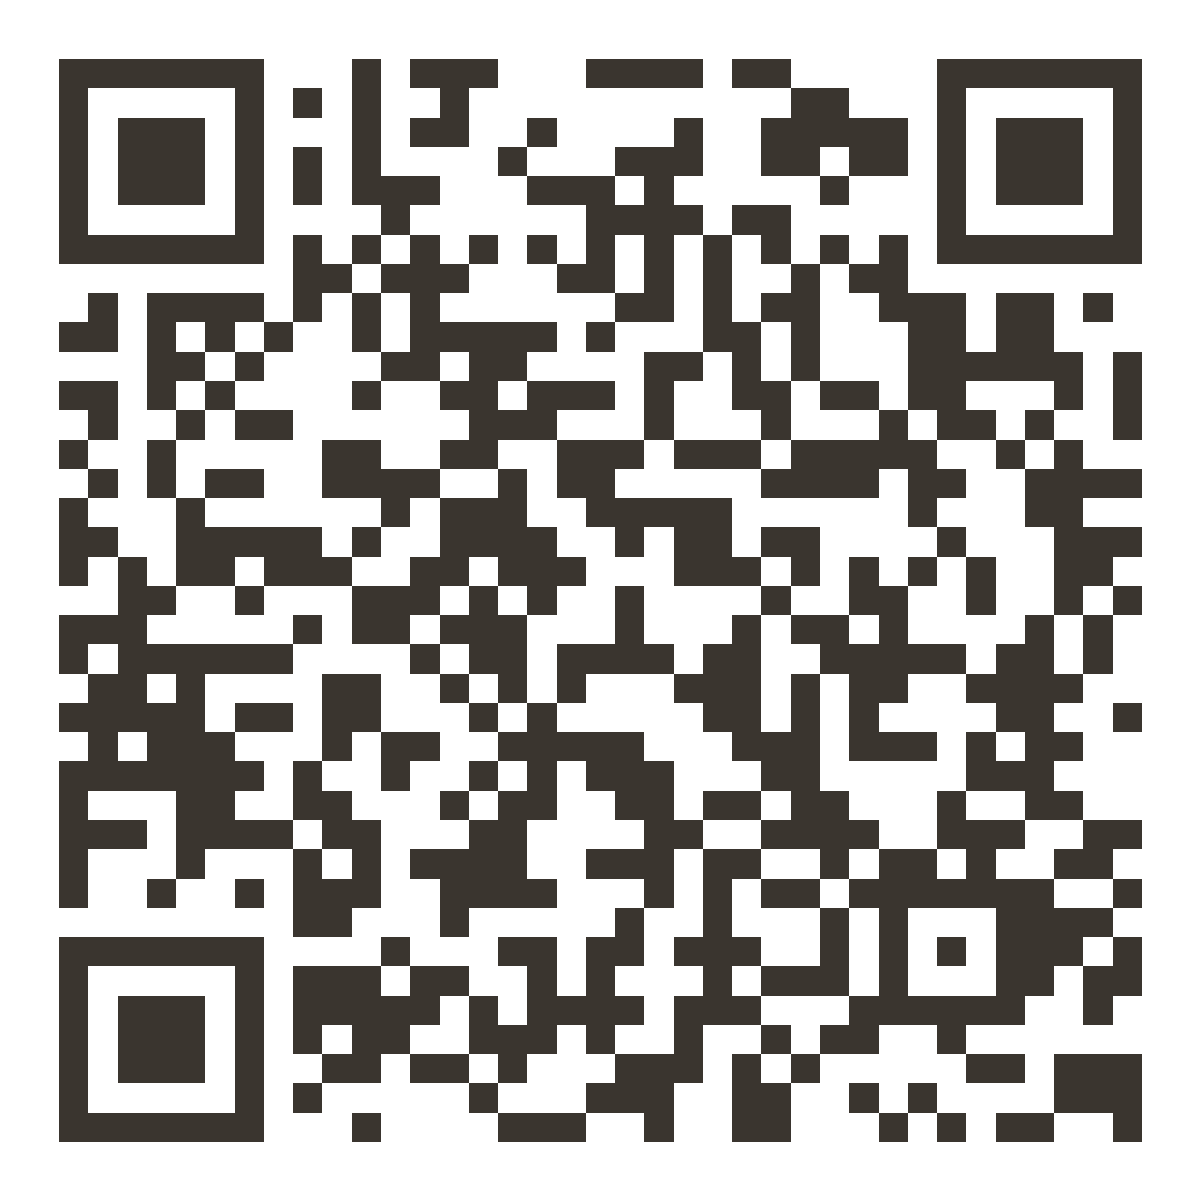
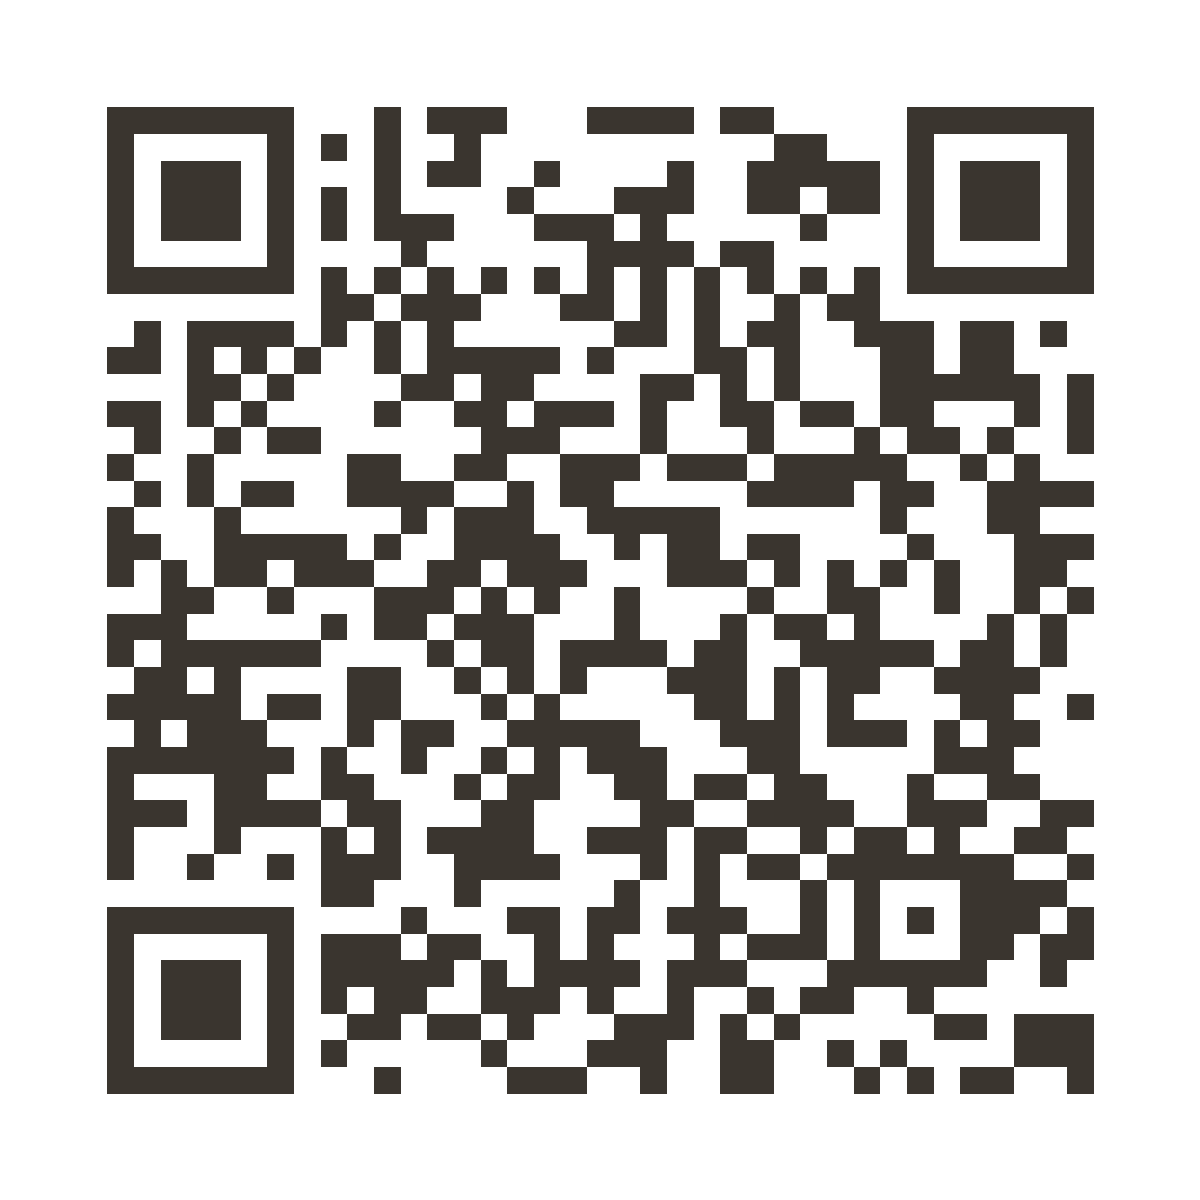
docs: QR 절을 종이 청첩장 인쇄 업체 전달용으로 재작성
QR 은 웹 페이지에 넣지 않고 인쇄 업체에 넘기는 용도로 확정. 그에 맞춰 정리

- 여백(quiet zone) 2모듈 -> 4모듈. QR 규격이 요구하는 값이며, 부족하면 인쇄물 인식률이 떨어진다
- 업체에 함께 넘길 인쇄 사양 명시 — 최소 25mm, 여백 절단 금지, 색 반전 금지, 단색 배경
- 코드 구성 실측 기재 (37x37 모듈 + 여백 4모듈 = 45x45)
- 넘기기 전 확인 2가지 — 파일 디코딩, 시안 실물 스캔
  화면에서 읽히는 것과 종이에서 읽히는 것은 다르다
- 페이지 삽입용 HTML 안내 삭제 (해당 없음)

README 그 외
- 상단에 배포 주소 명시
- 파일 구성에 QR 산출물·측정 스크립트 추가
- 남은 작업을 실제 항목으로 구체화 (플레이스홀더·사진 교체가 전부, 배포는 이미 동작 중)

diff --git a/README.md b/README.md
@@ -3,6 +3,8 @@
 베뉴(Tov Hesed) 실제 입구 사진을 좌·우 문짝으로 잘라, 스크롤 진행률에 맞춰 `rotateY` 로 열리게 한 단일 파일 모바일 청첩장.
 동영상·GIF·이미지 시퀀스 미사용 → 총 자산 1MB 미만, 스크롤 역방향도 그대로 되감김.
 
+**배포 주소** — https://dylan-bak.github.io/wedding-invitation/ (GitHub Pages, `main` 에 push 하면 1~2분 뒤 자동 반영)
+
 ## 1. 실행
 
 ```bash
@@ -29,7 +31,9 @@ npx serve -l 4321 .
 | `IMG_0668(1).jpg` `IMG_1413(1).jpg` `IMG_1804(1).jpg` | 원본 사진 (자산 재생성용 소스) |
 | `IMG_0668(1)-2.jpg` | 원본 0668에서 문짝만 지운 인페인팅 결과 — `gate-bg.jpg` 소스 |
 | `3c4b782e-d48a-4e8d-8e9e-a11900226e3b.png` | 원본 0668의 간판을 "TOV HESED" 로 고친 생성본 (848x1248) — `frame.jpg`·문짝 소스 |
-| `tools/build-qr.mjs` | 배포 주소 → QR (`assets/qr.svg` · `qr.png`) |
+| `assets/qr.svg` · `qr.png` | 배포 주소 QR — **종이 청첩장 인쇄 업체 전달용** |
+| `tools/build-qr.mjs` | QR 생성 |
+| `tools/measure-scroll.mjs` | 문 열림 구간 프레임·각도 측정 + 구간별 스냅샷 |
 
 ## 3. 동작 원리
 
@@ -126,9 +130,9 @@ const MAX_ZOOM = 1.22;       // 최대 확대
 - 연락처 `tel:` / `sms:` 번호
 - 계좌 정보
 
-## 5. QR 코드
+## 5. QR 코드 — 종이 청첩장 인쇄용
 
-배포 주소를 QR 로 뽑는다. 종이 청첩장·현장 안내판용.
+청첩장 주소를 QR 로 뽑아 **인쇄 업체에 전달**하는 용도. 웹 페이지 안에는 넣지 않는다.
 
 ```bash
 node tools/build-qr.mjs
@@ -136,24 +140,38 @@ node tools/build-qr.mjs
 
 주소가 바뀌면 인자로 넘긴다 — `node tools/build-qr.mjs https://example.com/`
 
-| 산출물 | 용도 |
-|---|---|
-| `assets/qr.svg` | 화면·벡터. 크기를 키워도 안 깨진다 |
-| `assets/qr.png` | 인쇄용 1200px (300dpi 로 약 10cm) |
+### 업체에 넘길 파일
 
-오류정정 수준 Q — 25% 손상까지 복원되므로 인쇄물이 접히거나 가운데에 로고를 얹어도 읽힌다.
+| 파일 | 설명 | 우선순위 |
+|---|---|---|
+| `assets/qr.svg` | 벡터. 업체가 어떤 크기로 배치해도 안 깨진다 | **이걸 먼저 준다** |
+| `assets/qr.png` | 1200px 래스터. 업체가 SVG 를 못 받을 때만 | 대체용 |
 
-**생성 후 실제로 디코딩해 주소가 맞는지 확인할 것.** 눈으로는 틀린 QR 을 구별할 수 없다.
+### 인쇄 사양 (업체 전달 시 함께 명시)
+
+| 항목 | 값 | 이유 |
+|---|---|---|
+| 코드 구성 | 37×37 모듈 + 사방 여백 4모듈 = **45×45** | — |
+| **최소 인쇄 크기** | **가로세로 25mm 이상** | 모듈 하나가 0.5mm 이상이어야 휴대폰 카메라가 안정적으로 읽는다 |
+| 권장 크기 | 30~40mm | 실내 조명·구형 기기까지 여유 |
+| 여백(quiet zone) | **사방 흰 여백을 잘라내지 말 것** | 이미 파일에 4모듈 포함. 잘라내면 인식률이 급격히 떨어진다 |
+| 색상 | 코드 `#3a352f` / 배경 흰색 | 청첩장 본문 색과 맞춘 값. 명암비 충분 |
+| 반전 | **금지** — 밝은 배경 위 어두운 코드 유지 | 반전 코드는 못 읽는 리더기가 많다 |
+| 배경 | 사진·패턴 위에 얹지 말 것 | 단색 배경만 |
+
+업체가 순수 검정(`#000000`)을 요구하면 `tools/build-qr.mjs` 의 `dark` 값만 바꿔 다시 생성한다.
+
+오류정정 수준 **Q** (25% 손상까지 복원) — 인쇄물이 접히거나 가운데에 작은 로고를 얹어도 읽힌다.
+
+### 넘기기 전 확인 (2가지 모두)
+
+**1) 파일이 올바른 주소를 담고 있는지 디코딩으로 확인.** 눈으로는 틀린 QR 을 구별할 수 없다.
 
 ```bash
 node -e "(async()=>{const sharp=(await import('sharp')).default;const jsQR=(await import('jsqr')).default;const {data,info}=await sharp('assets/qr.png').ensureAlpha().raw().toBuffer({resolveWithObject:true});console.log(jsQR(new Uint8ClampedArray(data),info.width,info.height).data)})()"
 ```
 
-페이지 안에 넣으려면 이미지 한 줄이면 된다. 런타임 QR 라이브러리는 불필요.
-
-```html
-<img src="assets/qr.svg" alt="청첩장 주소 QR" width="160">
-```
+**2) 시안이 나오면 실제 인쇄물을 휴대폰으로 스캔.** 화면에서 읽히는 것과 종이에서 읽히는 것은 다르다 — 잉크 번짐·크기 축소·코팅 반사에서 실패한다.
 
 ## 6. 자산 재생성
 
@@ -387,4 +405,14 @@ aws cloudfront create-invalidation --distribution-id <배포ID> --paths "/index.
 
 ## 9. 남은 작업
 
-`DOC-pending.md` 참조.
+배포는 이미 동작 중이고, 남은 것은 내용 채우기다.
+
+| 구분 | 내용 |
+|---|---|
+| **필수** | `index.html` 의 `OOO` · `0월 0일` 플레이스홀더 전부 교체 (이름·일시·장소·주소·연락처·계좌) |
+| **필수** | `assets/couple-placeholder.jpg` 를 실제 웨딩 사진으로 교체 |
+| 권장 | `assets/g1~g3.jpg` · `hall-wide.jpg` · `aisle.jpg` 도 현재 베뉴 사진(임시)이라 촬영본으로 교체 |
+| 권장 | 실기기(iOS Safari · Android Chrome)에서 문 열림 확인 |
+| 보류 | 카카오톡 공유 메타태그(og:image), 배경음악 — `DOC-pending.md` 참조 |
+
+내용을 채운 뒤에는 **QR 을 다시 뽑을 필요가 없다.** 주소가 그대로이므로 이미 만든 QR 이 계속 유효하다.
